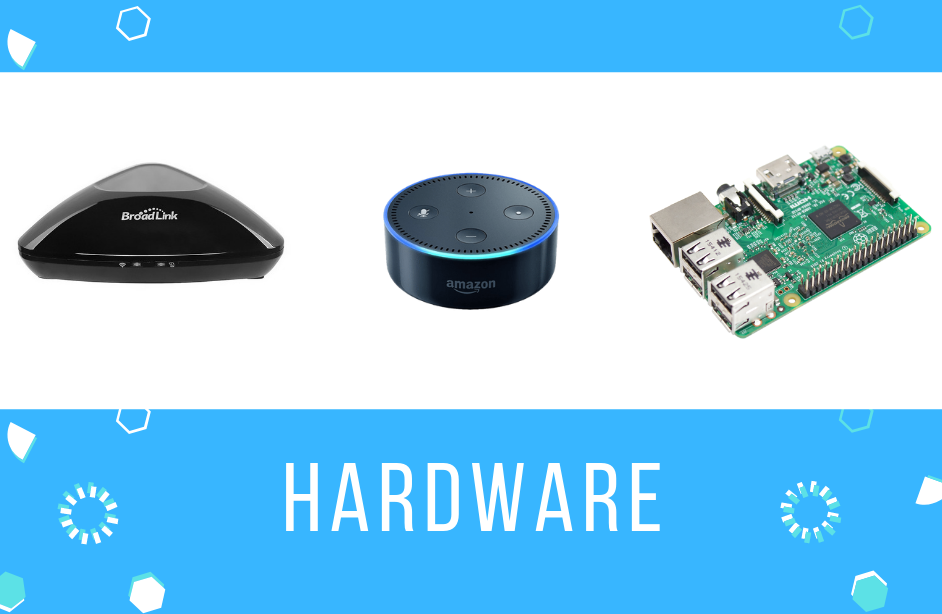
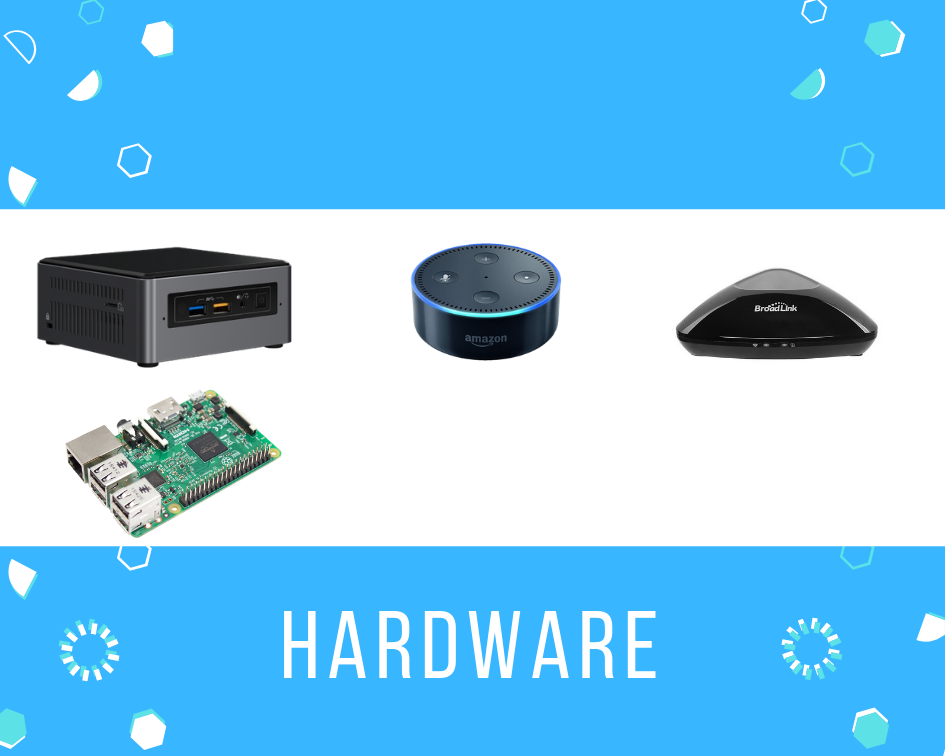
New Update

diff --git a/README.md b/README.md
@@ -9,11 +9,11 @@
 <h1>Welcome to My Home Assistant Configuration Project!<br></h1>
 <p>
 This is my current Home Assistant Configuration ( trying my best to keep it up to date ).<br>
-Below you will discover the devices & services that I currently use.
-I belive that you can get inspiration or ideas from my configuration such as I got from many awesome other github users.
+Below you will discover the devices & services that I currently use or will use.
+I belive that you can get inspiration or ideas from my configuration such as I got from many awesome other github users!.
 </p>
 
-<p align="center">Be sure to <g-emoji class="g-emoji" alias="star" fallback-src="https://assets-cdn.github.com/images/icons/emoji/unicode/2b50.png">⭐</g-emoji> my repo!</p>
+<p align="center">Be sure to <g-emoji class="g-emoji" alias="star" fallback-src="https://assets-cdn.github.com/images/icons/emoji/unicode/2b50.png">⭐</g-emoji> my repo if you find it helpfull for you :)</p>
 <br>
  
 <table>
@@ -43,7 +43,8 @@ I belive that you can get inspiration or ideas from my configuration such as I g
 <p>
  - <a href="https://www.gearbest.com/smart-home-controls/pp_255607.html?wid=1433363">Broadlink RM Pro RF433/IR</a> <br>
  - <a href="https://www.amazon.com/gp/product/B01DFKC2SO/ref=oh_aui_detailpage_o00_s01?ie=UTF8&psc=1">Amazon Echo Dot</a> <br>
- - <a href="https://www.gearbest.com/raspberry-pi/pp_354347.html?wid=1433363">Raspberry Pie 3</a>
+ - Intel NUC <br>
+ - <a href="https://www.gearbest.com/raspberry-pi/pp_354347.html?wid=1433363">Raspberry Pie 3</a> as my "playground".
 </p>
 
 <center>  
@@ -57,32 +58,50 @@ I belive that you can get inspiration or ideas from my configuration such as I g
 -<a href="https://www.gearbest.com/living-appliances/pp_344665.html?wid=1433363"> Xiaomi Temperature/Humidity Sensors </a><br>
 -<a href="https://www.gearbest.com/smart-light-bulb/pp_257679.html?wid=1433363"> Xiaomi Switch Button</a><br>
 -<a href="https://www.banggood.com/Original-Xiaomi-Intelligent-Human-Sensor-Control-Smart-Home-Suit-Kit-Accessory-p-1017540.html?rmmds=search&cur_warehouse=CN"> Xiaomi Motion Sensor</a><br>
-- <a href="https://www.gearbest.com/home-smart-improvements/pp_668897.html?wid=1433363">Xiaomi Water Sensor</a><br>
-- <a href="https://www.gearbest.com/power-strips/pp_341431.html?wid=1433363">Xiaomi Smart Plug</a><br>
+-<a href="https://www.gearbest.com/home-smart-improvements/pp_668897.html?wid=1433363"> Xiaomi Water Sensor</a><br>
+-<a href="https://www.gearbest.com/power-strips/pp_341431.html?wid=1433363"> Xiaomi Smart Plug</a><br>
 -<a href="https://www.gearbest.com/alarm-systems/pp_615081.html?wid=1433363"> Xiaomi MiJia Honeywell Smoke Detector</a><br>
 -<a href="https://www.banggood.com/Xiaomi-Mi-Box-Amlogic-S905X-2GB-RAM-8GB-ROM-TV-Box-International-Version-p-1182281.html?rmmds=search"> Mi Box 3 </a> <br>
+-<a href="https://www.gearbest.com/robot-vacuum/pp_009816316347.html?wid=1433363"> Xiaomi Mi Robot Vaccum </a> <br>
+</p>
+
+<center>  
+<img src="https://github.com/natylaza89/Home-Assistant/blob/master/pics/more.png">
+</center>
+
+<h1><u>Additional Smart Home Device List:</u></h1>
+<p>
+-<a href="https://sensibo.com/products/sensibo-sky"> Sensibo</a> (Air Conditioner control)<br>
+- SwitcherV2 (Smart Boiler) <br>
+-<a href="https://www.aliexpress.com/item/FrankEver-Smart-Socket-16A-with-Power-Monitoring-US-EU-UK-India-Israel-WiFi-Plug-Voice-Remote/32968604339.html?spm=a2g0s.9042311.0.0.1e784c4dmlxi9A"> FrankEver Smart Plug</a> (Tasmotised)<br>
 </p>
 
 <h1><u>Docker's Services:</u></h1>
 <p>
 - Home Assistant <br>
 - MariaDB <br>
-- Mosquitto (MQTT Server) <br> 
-- Lets Encrypt <br>
+- Mosquitto (MQTT Broker) <br> 
 - Pi-Hole<br>
-- Unifi <br>
-- Portainer <br>
+- Unifi<br>
+- Portainer (Manage&Control Docker Containers)<br>
 - Heimdall<br>
 - Tasmota Server <br>
-- WatchTower <br>
-- HA-Dockermon<br>
-- Speedtest
+- WatchTower (Auto Update)<br>
+- HA-Dockermon (Controll Containers from HA)<br>
+- Duplicati <br>
+- Traccar (For Device Tracker)<br>
 </p>
 
 <h1><u>Other Services:</u></h1>
 <p>
-- CUPS <br>
+- Caddy (Instead of Ngninx/Lets-Encrypt) <br>
+- Haaska (Home Assistant Alexa Skill Adapter) <br>
 - Samba <br>
-- SSH Server
+- SSH Server<br>
 </p>
  </center>
+
+ <h1><u>Future Services:</u></h1>
+<p>
+- Jenkis <br>
+- InfluxDB & Grafana <br>
